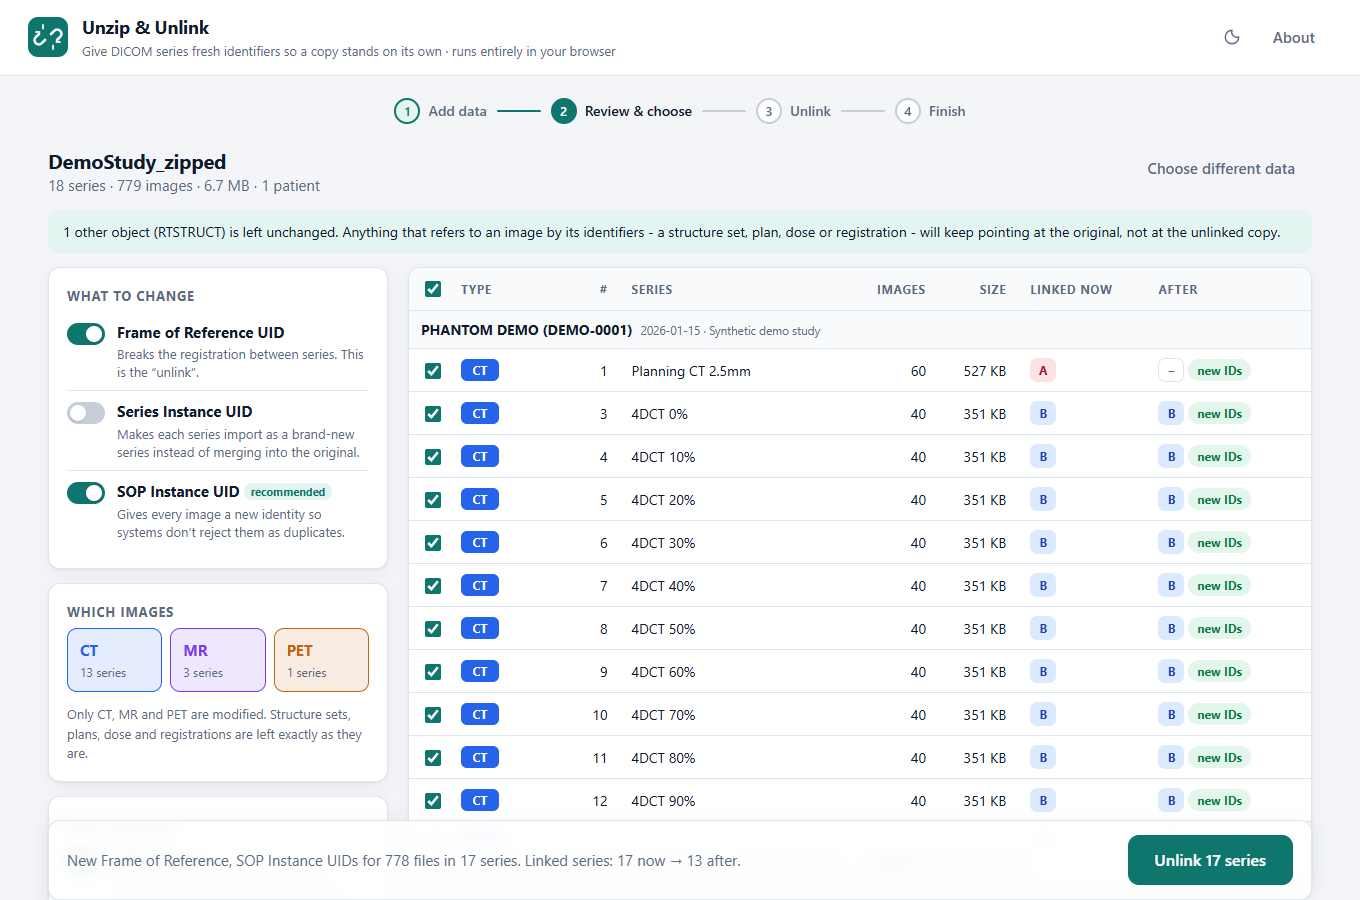
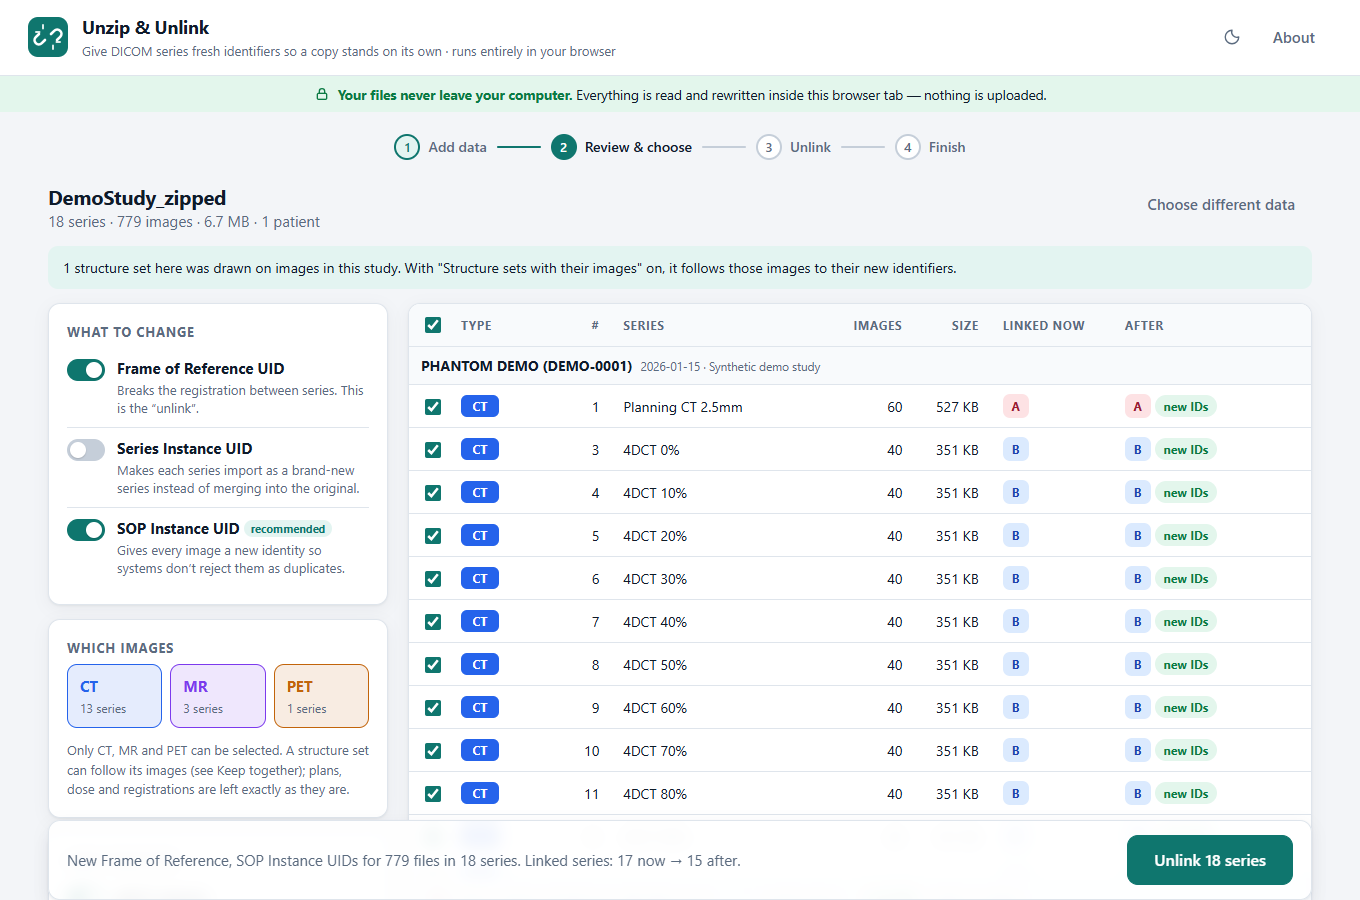
Browser edition: say up front that files never leave the computer; new screenshots
- The site now shows a banner on every step: "Your files never leave your
  computer. Everything is read and rewritten inside this browser tab -
  nothing is uploaded." It was only in the small print before.
- All screenshots in docs/screenshots and UnzipUnlinkGUI/docs are retaken
  with the current apps (structure sets following their images, the tag
  editing card, the banner).
- web-shots.mjs retakes the two web app pictures; the browser and desktop
  ones already had a scripted route.
- Headless desktop mode lets the series table finish laying out before a
  run starts, so the "running" picture is not captured half drawn now that
  runs are short.

diff --git a/UnzipUnlink.Browser/wwwroot/app.css b/UnzipUnlink.Browser/wwwroot/app.css
@@ -123,6 +123,16 @@ a { color: var(--accent); text-underline-offset: 2px; }
 .logo-spark { fill: none; stroke: var(--on-accent); stroke-width: 2; stroke-linecap: round; opacity: .85; }
 .top-actions { display: flex; gap: 6px; }
 
+/* Shown on every step: the one thing a visitor with patient data needs to know before anything else. */
+.privacy {
+  display: flex; align-items: center; justify-content: center; gap: 8px;
+  padding: 8px 28px; font-size: 13.5px; text-align: center;
+  background: var(--ok-soft); color: var(--ok);
+}
+.privacy svg { width: 16px; height: 16px; flex: none; fill: none; stroke: currentColor; stroke-width: 2; stroke-linecap: round; stroke-linejoin: round; }
+.privacy span { color: var(--text); }
+.privacy strong { color: var(--ok); }
+
 /* ---- Steps ------------------------------------------------------------------------------------ */
 .steps {
   list-style: none; margin: 0 auto; padding: 22px 28px 6px;

diff --git a/UnzipUnlink.Browser/wwwroot/index.html b/UnzipUnlink.Browser/wwwroot/index.html
@@ -37,6 +37,11 @@
     </div>
   </header>
 
+  <p class="privacy" id="privacyNote">
+    <svg viewBox="0 0 24 24" aria-hidden="true"><rect x="5" y="11" width="14" height="9" rx="2"/><path d="M8 11V8a4 4 0 0 1 8 0v3"/></svg>
+    <span><strong>Your files never leave your computer.</strong> Everything is read and rewritten inside this browser tab &mdash; nothing is uploaded.</span>
+  </p>
+
   <nav aria-label="Progress">
     <ol class="steps" id="steps">
       <li data-step="add"><span class="dot">1</span><span>Add data</span></li>

diff --git a/UnzipUnlinkGUI/Diagnostics/HeadlessRunner.cs b/UnzipUnlinkGUI/Diagnostics/HeadlessRunner.cs
@@ -197,6 +197,8 @@ public static class HeadlessRunner
                 string folder = viewModel.FolderPath;
                 // A .zip extracted to this computer has no folder next to it until the run has finished.
                 List<SeriesSnapshot> before = Directory.Exists(folder) ? Snapshot(DicomScanner.Scan(folder)) : [];
+                // Let the series table finish laying out first: a short run is otherwise captured half drawn.
+                await Settle(window.Dispatcher);
                 await viewModel.RunAsync();
                 List<SeriesSnapshot> after = Snapshot(DicomScanner.Scan(folder));
                 report["verification"] = Compare(before, after);
